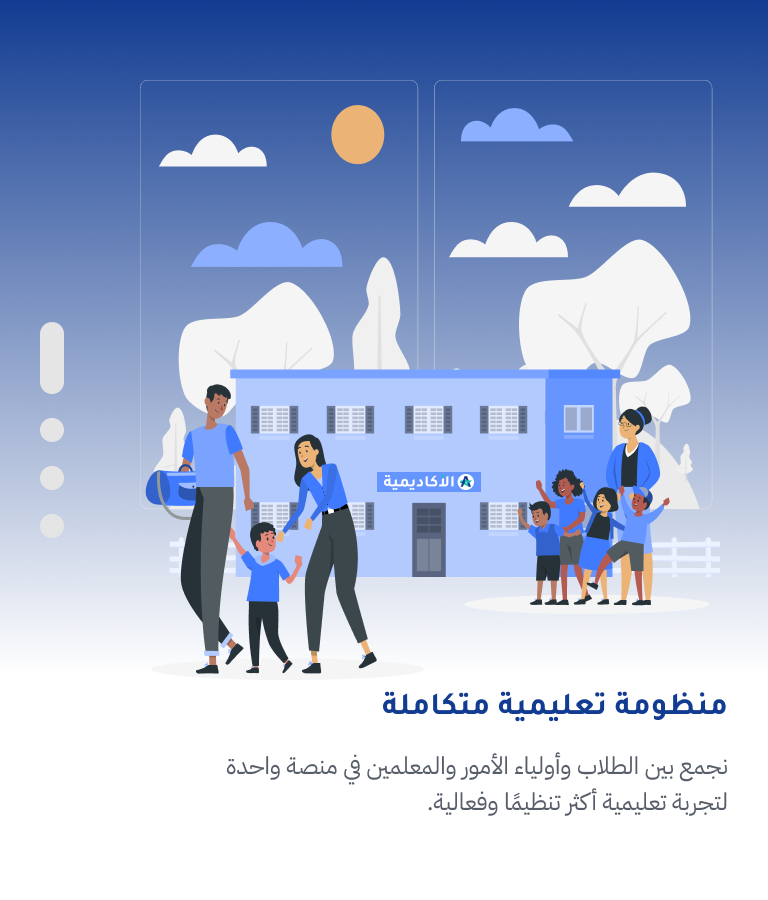
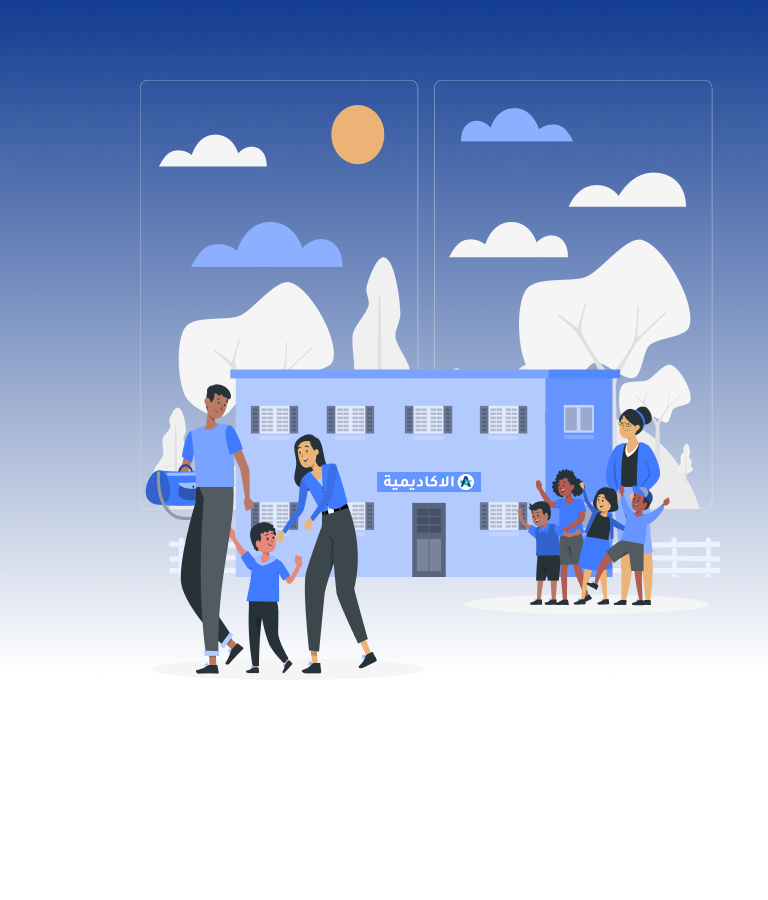
AuthLayout

diff --git a/src/components/auth/AuthLayout.jsx b/src/components/auth/AuthLayout.jsx
@@ -1,37 +1,86 @@
 import React, { useState, useEffect } from "react";
-import img1 from "../../assets/image1.png";
-import img2 from "../../assets/image2.png";
-import img3 from "../../assets/image3.png";
+import img1 from "../../assets/slide1.png";
+import img2 from "../../assets/slide2.png";
+import img3 from "../../assets/slide3.png";
+
+const slides = [
+  { image: img1, title: "منظومة تعليمية متكاملة", desc: "نجمع بين الطلاب وأولياء الأمور والمعلمين في منصة واحدة لتجربة تعليمية أكثر تنظيماً وفعالية." },
+  { image: img2, title: "تابع رحلة أبنائك التعليمية", desc: "راقب الحضور والدرجات وساعات الدراسة، وابق على اطلاع دائم بتقدم أبنائك الأكاديمي." },
+  { image: img3, title: "تعلم بثقة وتفاعل", desc: "تابع دروسك، أنجز واجباتك، وشارك في الفصول الافتراضية ضمن بيئة تعليمية آمنة ومنظمة." },
+];
 
 const AuthLayout = ({ children }) => {
-  const [index, setIndex] = useState(0);
-  const images = [img1, img2, img3];
+  const [current, setCurrent] = useState(0);
+  const [progress, setProgress] = useState(0);
 
   useEffect(() => {
-    const interval = setInterval(() => {
-      setIndex((prev) => (prev + 1) % images.length);
-    }, 3000);
+    setProgress(0);
+    const duration = 4000;
+    const intervalTime = 50;
+    const step = 100 / (duration / intervalTime);
 
-    return () => clearInterval(interval);
-  }, []);
+    const progressInterval = setInterval(() => {
+      setProgress((prev) => {
+        if (prev + step >= 100) {
+          clearInterval(progressInterval);
+          setCurrent((c) => (c + 1) % slides.length);
+          return 0;
+        }
+        return prev + step;
+      });
+    }, intervalTime);
+
+    return () => clearInterval(progressInterval);
+  }, [current]);
+
 
   return (
-    <div className="min-h-screen flex bg-gray-100">
+    <div className="min-h-screen flex">
 
-      {/* LEFT SIDE → FORM (زي الصورة) */}
       <div className="w-full md:w-1/2 flex items-center justify-center bg-white px-6">
         {children}
       </div>
 
-      {/* RIGHT SIDE → IMAGE */}
-      {/* <div className="hidden md:flex w-1/2 relative items-center justify-center bg-[#e9eef6] overflow-hidden">
-        <img
-          src={images[index]}
-          alt="slide"
-          className="w-[80%] h-auto object-contain transition-all duration-700"
-        />
-      </div> */}
+      <div className="hidden md:flex w-1/2 relative overflow-hidden order-1 md:order-1">
+        {slides.map((slide, index) => (
+          <div
+            key={index}
+            className={`absolute inset-0 transition-opacity duration-700 ${current === index ? "opacity-100" : "opacity-0"}`}
+          >
+            <img src={slide.image} className="w-full h-full object-cover" alt={slide.title} />
 
+            <div className="absolute bottom-4 left-10 right-10 z-10 text-right">
+
+              <h1 className="font-['Tajawal'] font-bold text-[32px] leading-10 text-primary p-2  inline-block  rounded">
+                {slide.title}
+              </h1>
+
+              <p className="font-['IBM_Plex_Sans_Arabic'] -mt-4 font-normal text-[24px] leading-9  p-4 rounded text-[#1F2937]/70 w-full md:w-[80%] ml-auto">
+                {slide.desc}
+              </p>
+
+            </div>
+          </div>
+        ))}
+
+        <div className="absolute left-6 top-1/2 -translate-y-1/2 flex flex-col items-center gap-3 z-10">
+          {slides.map((_, index) => {
+            const distance = (index - current + slides.length) % slides.length;
+            let height = "h-5";
+            if (distance === 0) height = "h-12";
+            else if (distance === 1) height = "h-8";
+            else if (distance === 2) height = "h-6";
+
+            return (
+              <div key={index} className={`w-3 ${height} rounded-full bg-gray-300/50 overflow-hidden`}>
+                {index === current && (
+                  <div className="w-full bg-white transition-all duration-100" style={{ height: `${progress}%` }} />
+                )}
+              </div>
+            );
+          })}
+        </div>
+      </div>
     </div>
   );
 };
